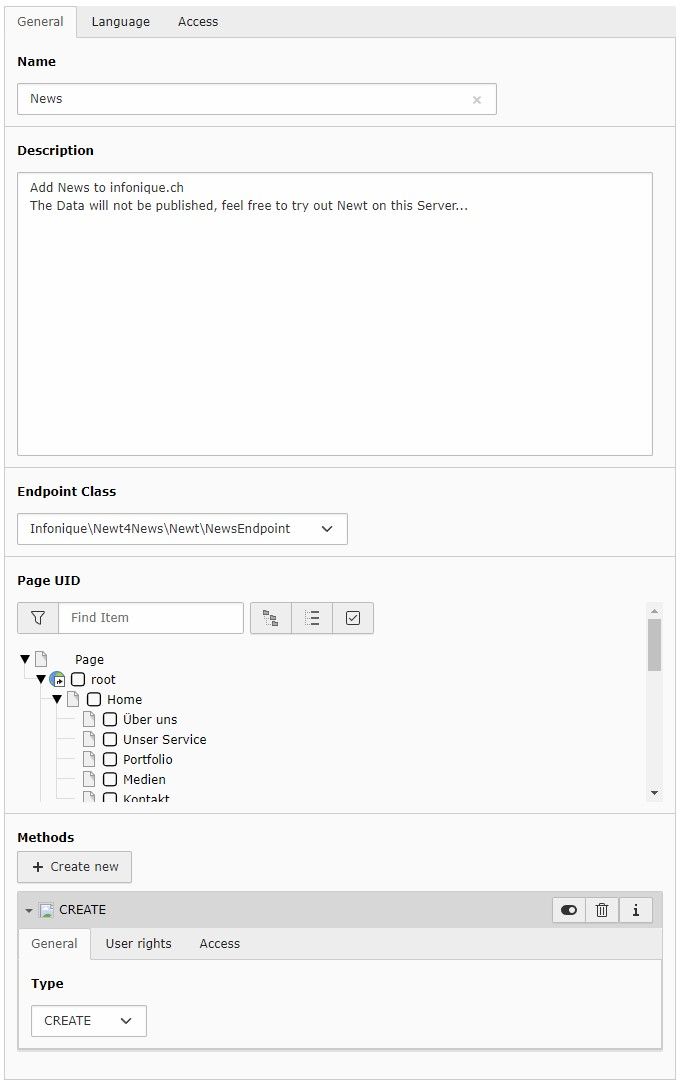
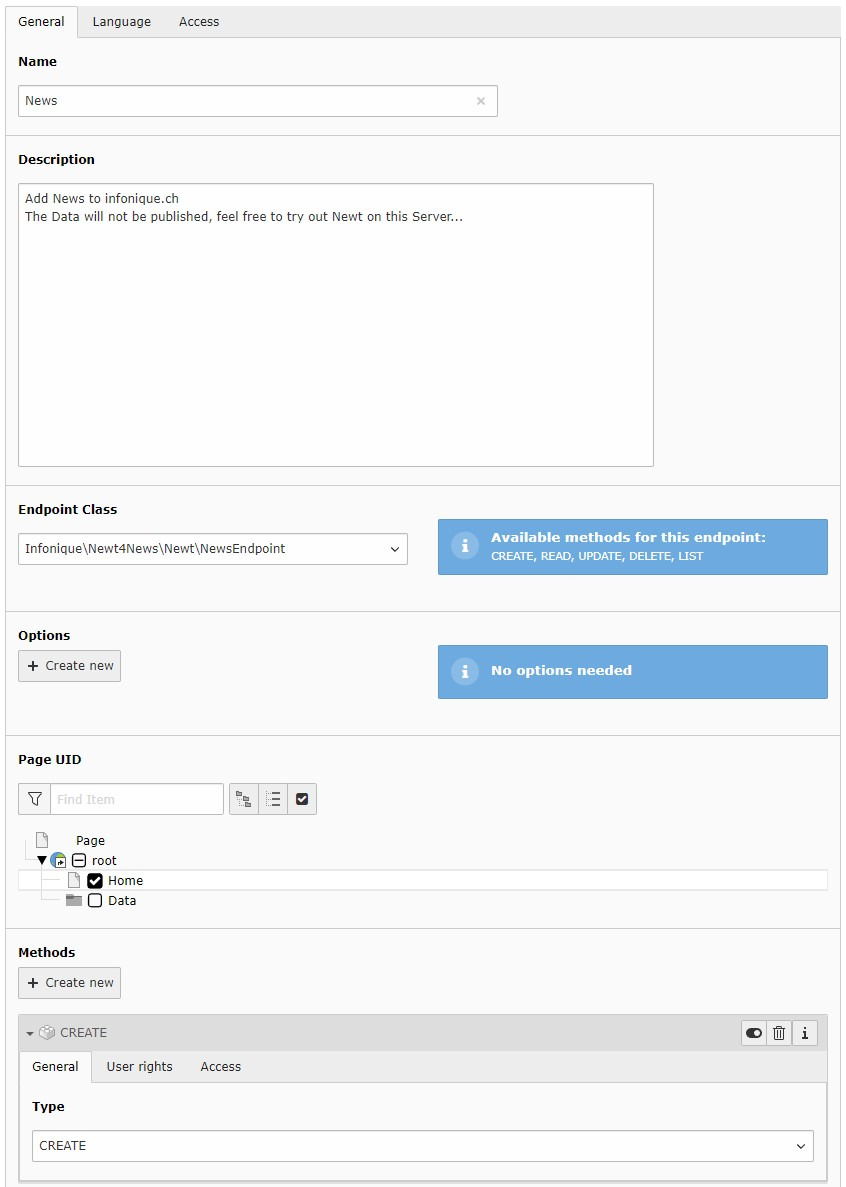
Update documentation

diff --git a/Documentation/Developer/Options/Index.rst b/Documentation/Developer/Options/Index.rst
@@ -1,0 +1,61 @@
+.. include:: ../Includes.txt
+
+.. _fields:
+
+================
+Endpoint Options
+================
+
+Here's an example of how to implement the :code:`EndpointOptionsInterface`
+
+.. code-block:: php
+
+   /**
+    * Pass one EndpointOption to the class
+    *
+    * @param string $optionName
+    * @param string $optionValue
+    * @return void
+    */
+   public function addEndpointOption(string $optionName, string $optionValue): void
+   {
+      switch ($optionName) {
+         case "pluginName" :
+            $this->pluginName = $optionValue;
+            break;
+         case "fieldTitle" :
+            $this->fieldTitle = $optionValue;
+            break;
+         case "fieldDescription" :
+            $this->fieldDescription = $optionValue;
+            break;
+      }
+   }
+
+   /**
+    * Returns the array with needed options as an assoc-array ["key" => "label"]
+    *
+    * @return array
+    */
+   public function getNeededOptions(): array
+   {
+      $languageFile = 'LLL:EXT:newt4dce/Resources/Private/Language/locallang_db.xlf:';
+      return [
+         $GLOBALS['LANG']->sL($languageFile . 'tx_newt4dce.options.pluginName')       => "pluginName",
+         $GLOBALS['LANG']->sL($languageFile . 'tx_newt4dce.options.fieldTitle')       => "fieldTitle",
+         $GLOBALS['LANG']->sL($languageFile . 'tx_newt4dce.options.fieldDescription') => "fieldDescription",
+      ];
+   }
+
+   /**
+    * Returns the hint for EndpointOptions
+    *
+    * @return string|null
+    */
+   public function getEndpointOptionsHint(): ?string
+   {
+      $languageFile = 'LLL:EXT:newt4dce/Resources/Private/Language/locallang_db.xlf:';
+      return $GLOBALS['LANG']->sL($languageFile . 'tx_newt4dce.options.hint');
+   }
+
+

diff --git a/Documentation/Developer/Index.rst b/Documentation/Developer/Index.rst
@@ -6,7 +6,7 @@
 Developer Corner
 ================
 
-To implement an endpoint into your own extension, you have to implement the EndpointInterface.
+To implement an endpoint into your own extension, you have to implement the :code:`EndpointInterface`
 
 .. code-block:: php
 
@@ -15,7 +15,20 @@ To implement an endpoint into your own extension, you have to implement the Endp
       // implement the interface here
    }
 
-As an example, please see EXT:newt4news/Classes/Newt/NewsEndpoint
+As an example, please see :code:`EXT:newt4news/Classes/Newt/NewsEndpoint`
+
+
+If your endpoint needs some additional options, you have to implement the :code:`EndpointOptionsInterface`
+
+.. code-block:: php
+
+   class MyEndpoint implements \Infonique\Newt\NewtApi\EndpointInterface, \Infonique\Newt\NewtApi\EndpointOptionsInterface
+   {
+      // implement the interface here
+   }
+
+As an example, please see :code:`EXT:newt4dce/Classes/Newt/DceEndpoint`
+
 
 For the Extension to know the available endpoint-implementations you have to add this Hook into your ext_localconf.php:
 
@@ -28,6 +41,7 @@ For the Extension to know the available endpoint-implementations you have to add
    :maxdepth: 5
    :titlesonly:
 
-   Fields/Index
    AvailableMethod/Index
+   EndpointOptions/Index
+   Fields/Index
    Validation/Index

diff --git a/Documentation/Configuration/AddEndpoints/Index.rst b/Documentation/Configuration/AddEndpoints/Index.rst
@@ -8,7 +8,7 @@ Add Endpoints
 
 To add an endpoint, switch into list-view, chose the storage-page (see persistence.storagePid)
 
-Click the plus-button, to add a new record and chose "Endpoint" under "Newt"
+Click the plus-button, to add a new record and chose :code:`Endpoint` under :code:`Newt`
 
 Enter the Name and the description, the Client will see this labels.
 

diff --git a/Documentation/Developer/AvailableMethod/Index.rst b/Documentation/Developer/AvailableMethod/Index.rst
@@ -6,7 +6,7 @@
 Available Method Types
 ======================
 
-Here's an example of the method "getAvailableMethodTypes"
+Here's an example of the method :code:`getAvailableMethodTypes`
 
 .. code-block:: php
 

diff --git a/Documentation/Developer/Fields/Index.rst b/Documentation/Developer/Fields/Index.rst
@@ -6,7 +6,7 @@
 Fields
 ======
 
-Here's an example of the method "getAvailableFields"
+Here's an example of the method :code:`getAvailableFields`
 
 .. code-block:: php
 
